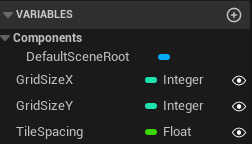
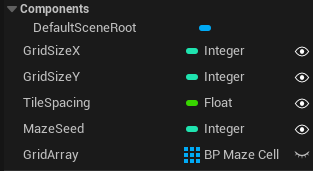
Update UE Maze Tutorial

diff --git a/_posts/2026-04-18-gemini-maze-generator.md b/_posts/2026-04-18-gemini-maze-generator.md
@@ -80,15 +80,53 @@ In this series, we are building a procedurally generated maze from scratch using
 
 #### Step 3 — Visibility Logic
 
-9. Create four **Public Booleans** (click the Eye icon): `ShowNorthWall`, `ShowSouthWall`, `ShowEastWall`, and `ShowWestWall`. In the **Details Panel**, make sure they are checked (True) by default.
+9. In the variables section on the left, create four **Public Booleans** (click the Eye icon): `ShowNorthWall`, `ShowSouthWall`, `ShowEastWall`, and `ShowWestWall`. In the **Details Panel**, make sure they are checked (True) by default.
 
-10. In the **Construction Script** tab, drag the wall components into the graph as **Get**. Drag off them to create `Set Visibility` nodes.
+---
+
+<div style="display:flex; gap:10px;">
+  <a href="{{ '/assets/images/blog/Part1-Step-3a.png' | relative_url }}" style="flex:1;">
+    <img src="{{ '/assets/images/blog/Part1-Step-3a.png' | relative_url }}" style="width:100%;" alt="ShowNorthWall details" class="post-image">
+  </a>
+
+  <a href="{{ '/assets/images/blog/Part1-Step-3b.png' | relative_url }}" style="flex:1;">
+    <img src="{{ '/assets/images/blog/Part1-Step-3b.png' | relative_url }}" style="width:100%;" alt="ShowSouthWall details" class="post-image">
+  </a>
+
+  <a href="{{ '/assets/images/blog/Part1-Step-3c.png' | relative_url }}" style="flex:1;">
+    <img src="{{ '/assets/images/blog/Part1-Step-3c.png' | relative_url }}" style="width:100%;" alt="ShowEastWall details" class="post-image">
+  </a>
+
+  <a href="{{ '/assets/images/blog/Part1-Step-3d.png' | relative_url }}" style="flex:1;">
+    <img src="{{ '/assets/images/blog/Part1-Step-3d.png' | relative_url }}" style="width:100%;" alt="ShowWestWall details" class="post-image">
+  </a>
+</div>
+
+---
+
+> ### Why the Construction Script?
+>
+> In Unreal Engine, the **Construction Script** runs every time an object is created or changed in the editor, whereas the **Event Graph** only runs once the game actually starts.
+>
+> By putting our wall visibility logic here, we ensure that if we manually check or uncheck the "Show Wall" boxes in the editor details, the walls will disappear or reappear **instantly** in our viewport. This makes it much easier to test and see your changes without having to hit "Play" every time!
+
+---
+
+10. **The Construction Script Logic:**
+    - Click on the **Construction Script** tab at the top of your Blueprint editor.
+    - **Drag the Walls:** Go to the **Components** panel on the left. Click and hold `NorthWall`, then drag it directly into the center of the graph. When you let go, a small node will appear labeled **North Wall**.
+    - **Add the Visibility Node:** Drag a wire out from the blue pin (the output) of the `NorthWall` node. When you let go of the mouse, a search box will appear. Type `Set Visibility` and select it.
+    - **Connecting the Toggle:** Drag your `ShowNorthWall` variable from the Variables list into the graph and select **Get ShowNorthWall**. Connect its red pin to the **New Visibility** checkbox on the node.
+
+    **Pro-Tip for Beginners:**
+
+If you want to save time, you can drag the wall component into the graph, and then drag the Boolean variable directly onto the "New Visibility" pin of the Set Visibility node. Unreal will automatically create the "Get" node and connect it for you!
 
 11. Connect your booleans to the **New Visibility** pins and chain the execution wires together.
 
-<a href="{{ '/assets/images/blog/Part1-Step-3.png' | relative_url }}">
-  <img src="{{ '/assets/images/blog/Part1-Step-3.png' | relative_url }}" alt="Connecting the boolean variables to wall visibility" class="post-image">
-</a>
+<a href="{{ '/assets/images/blog/Part1-Step-3e.png' | relative_url }}" style="flex:1;">
+    <img src="{{ '/assets/images/blog/Part1-Step-3e.png' | relative_url }}" style="width:50%;" alt="Connecting the boolean variables to wall visibility" class="post-image">
+  </a>
 
 ---
 
@@ -104,9 +142,33 @@ In this series, we are building a procedurally generated maze from scratch using
 
 14. Create one more variable named `GridArray`. Set its type to `BP_MazeCell` (Object Reference). Click the icon next to the type and change it to the **Grid icon** (Array).
 
-<a href="{{ '/assets/images/blog/Part1-Step-4.png' | relative_url }}">
-  <img src="{{ '/assets/images/blog/Part1-Step-4.png' | relative_url }}" alt="Creating the Generator variables and array" class="post-image">
-</a>
+---
+
+<div style="display:flex; gap:10px;">
+  <a href="{{ '/assets/images/blog/Part1-Step-4a.png' | relative_url }}" style="flex:1;">
+    <img src="{{ '/assets/images/blog/Part1-Step-4a.png' | relative_url }}" style="width:100%;" alt="Creating the Generator variables and array" class="post-image">
+  </a>
+
+  <a href="{{ '/assets/images/blog/Part1-Step-4b.png' | relative_url }}" style="flex:1;">
+    <img src="{{ '/assets/images/blog/Part1-Step-4b.png' | relative_url }}" style="width:100%;" alt="Showing GridSizeX details" class="post-image">
+  </a>
+
+  <a href="{{ '/assets/images/blog/Part1-Step-4c.png' | relative_url }}" style="flex:1;">
+    <img src="{{ '/assets/images/blog/Part1-Step-4c.png' | relative_url }}" style="width:100%;" alt="Showing GridSizeY details" class="post-image">
+  </a>
+
+  <a href="{{ '/assets/images/blog/Part1-Step-4d.png' | relative_url }}" style="flex:1;">
+    <img src="{{ '/assets/images/blog/Part1-Step-4d.png' | relative_url }}" style="width:100%;" alt="Showing TileSpacing details" class="post-image">
+  </a>
+
+  <a href="{{ '/assets/images/blog/Part1-Step-4e.png' | relative_url }}" style="flex:1;">
+    <img src="{{ '/assets/images/blog/Part1-Step-4e.png' | relative_url }}" style="width:100%;" alt="Showing MazeSeed details" class="post-image">
+  </a>
+
+  <a href="{{ '/assets/images/blog/Part1-Step-4f.png' | relative_url }}" style="flex:1;">
+    <img src="{{ '/assets/images/blog/Part1-Step-4f.png' | relative_url }}" style="width:100%;" alt="Showing GridArray details" class="post-image">
+  </a>
+</div>
 
 ---
 
